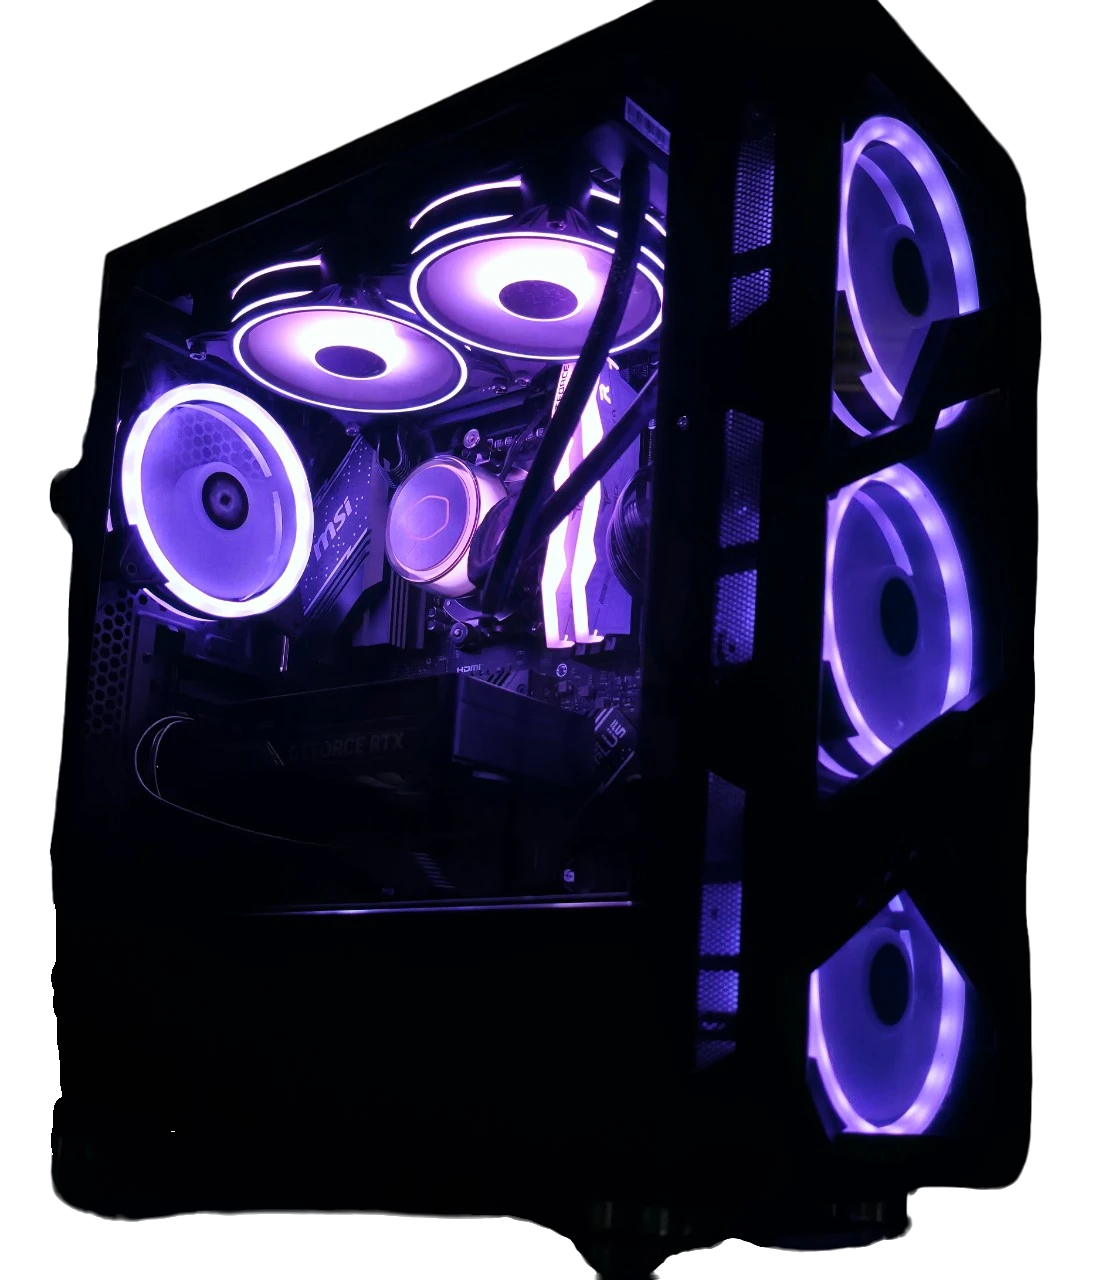
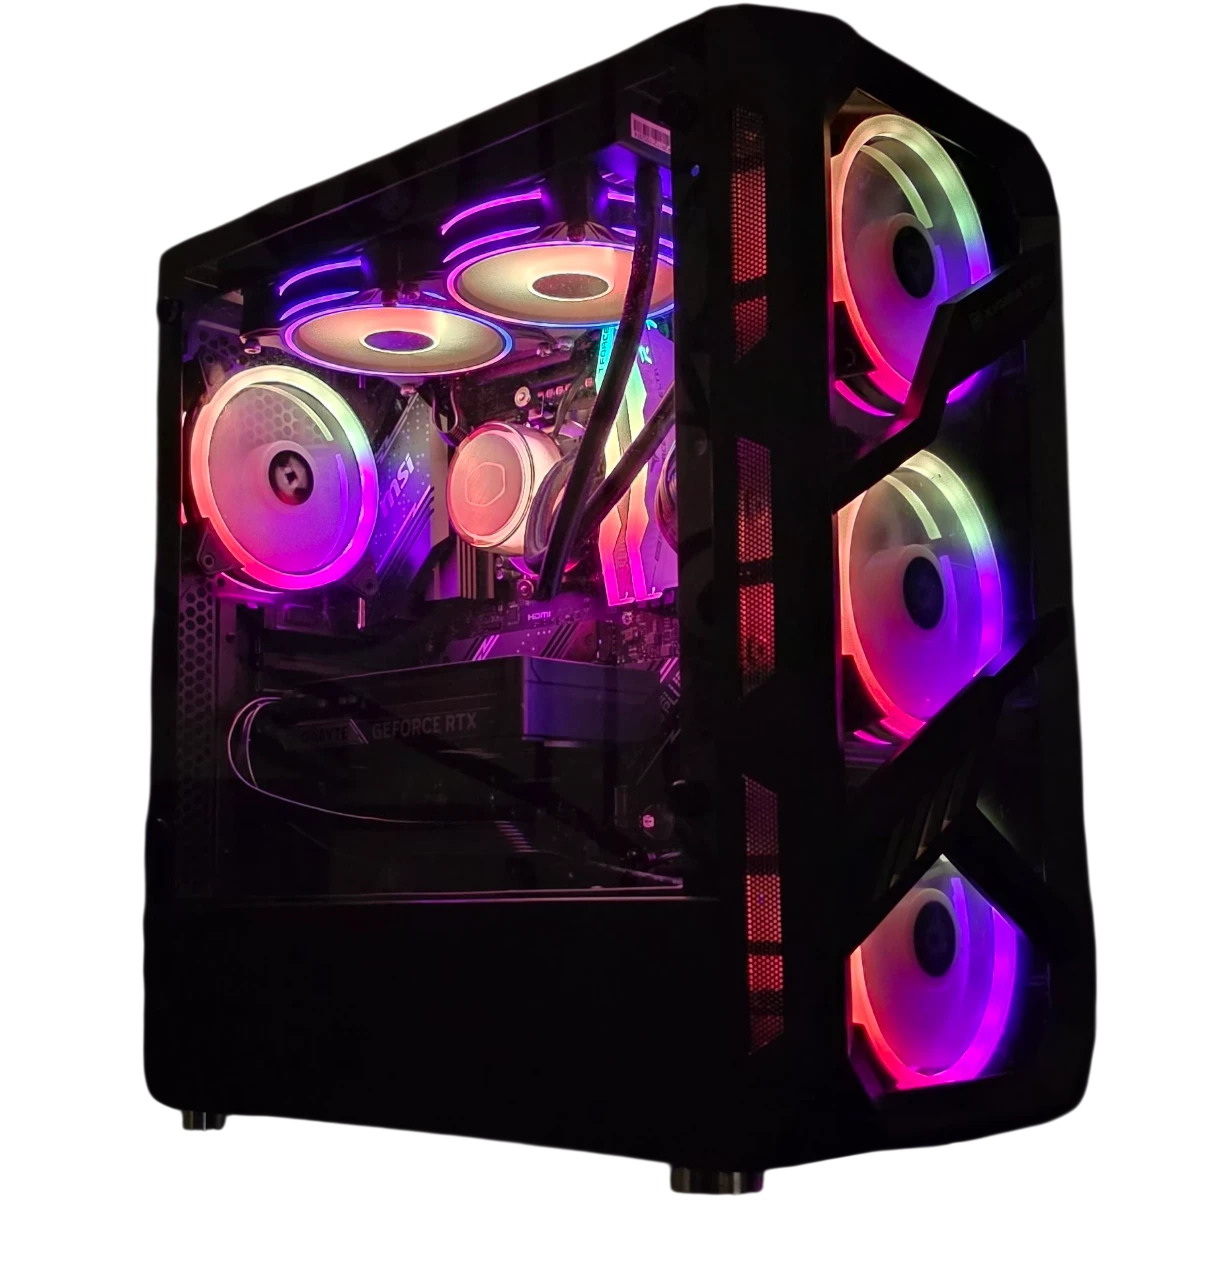
Replace RTX 5060 Ti build photo and reduce cutout edge fringing
Swap in the new transparent product shot for the "Ryzen 5 / RTX 5060 Ti
Build" card, and replace the red-tinted ambient glow behind every
completed-build photo with a near-black localized vignette that fades
into the panel gradient — this hides the light edge fringe transparent
cutouts tend to carry instead of highlighting it.

Claude-Session: https://claude.ai/code/session_01JfqSpyHPxpWCRiwr546Nt4

diff --git a/src/components/cards/BuildImageFrame.tsx b/src/components/cards/BuildImageFrame.tsx
@@ -4,14 +4,15 @@ import Image from "next/image";
  * Consistent "showroom" frame for a completed build's transparent-background
  * product photo. Fixed aspect ratio + object-contain means the PC is never
  * cropped or stretched and reads at the same visual size across builds
- * whatever the source canvas dimensions are; the dark panel, soft ambient
- * glow and a drop shadow that hugs the case silhouette keep it from looking
- * like a cutout floating on nothing.
+ * whatever the source canvas dimensions are; the dark panel, a near-black
+ * vignette localized behind the case (which hides the light edge fringe
+ * transparent cutouts tend to carry) and a drop shadow that hugs the case
+ * silhouette keep it from looking like a cutout floating on nothing.
  */
 export function BuildImageFrame({ src, alt }: { src: string; alt: string }) {
   return (
     <div className="relative aspect-[4/5] w-full overflow-hidden border-b border-border bg-gradient-to-br from-surface-elevated to-background">
-      <div aria-hidden="true" className="build-photo-glow pointer-events-none absolute inset-0" />
+      <div aria-hidden="true" className="build-photo-vignette pointer-events-none absolute inset-0" />
       <Image
         src={src}
         alt={alt}

diff --git a/src/app/globals.css b/src/app/globals.css
@@ -87,12 +87,21 @@ body {
   color: transparent;
 }
 
-/* Soft ambient glow behind a completed build's transparent product photo */
-.build-photo-glow {
+/*
+ * Localized near-black vignette behind a completed build's transparent
+ * product photo. Transparent PNG/WebP cutouts almost always carry a faint
+ * light fringe along the silhouette edge (residual anti-aliasing from the
+ * background removal) — placed directly on the lighter part of the panel
+ * gradient below, that fringe reads as a visible outline. Darkening the
+ * area immediately behind the case toward pure black, then fading back out
+ * to the panel colour, makes that edge disappear instead of standing out.
+ */
+.build-photo-vignette {
   background-image: radial-gradient(
-    ellipse 60% 48% at 50% 42%,
-    rgb(var(--color-primary) / 0.18),
-    transparent 70%
+    ellipse 62% 54% at 50% 46%,
+    rgb(var(--color-background) / 0.95) 0%,
+    rgb(var(--color-background) / 0.6) 45%,
+    transparent 78%
   );
 }
 
